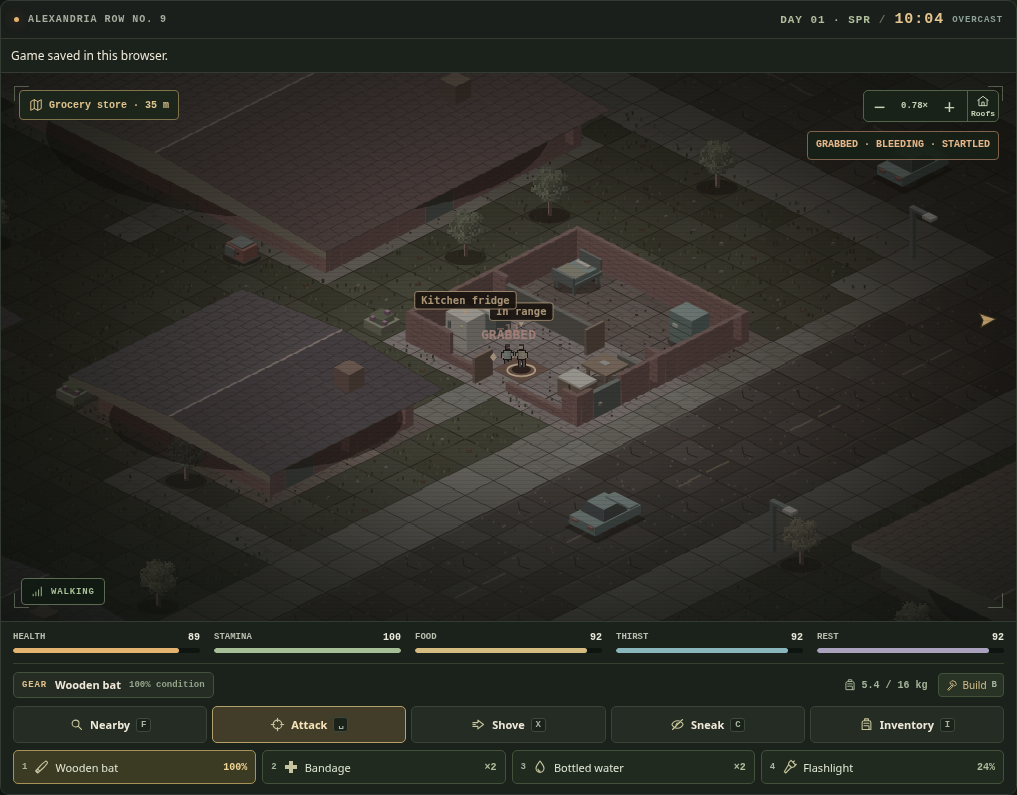
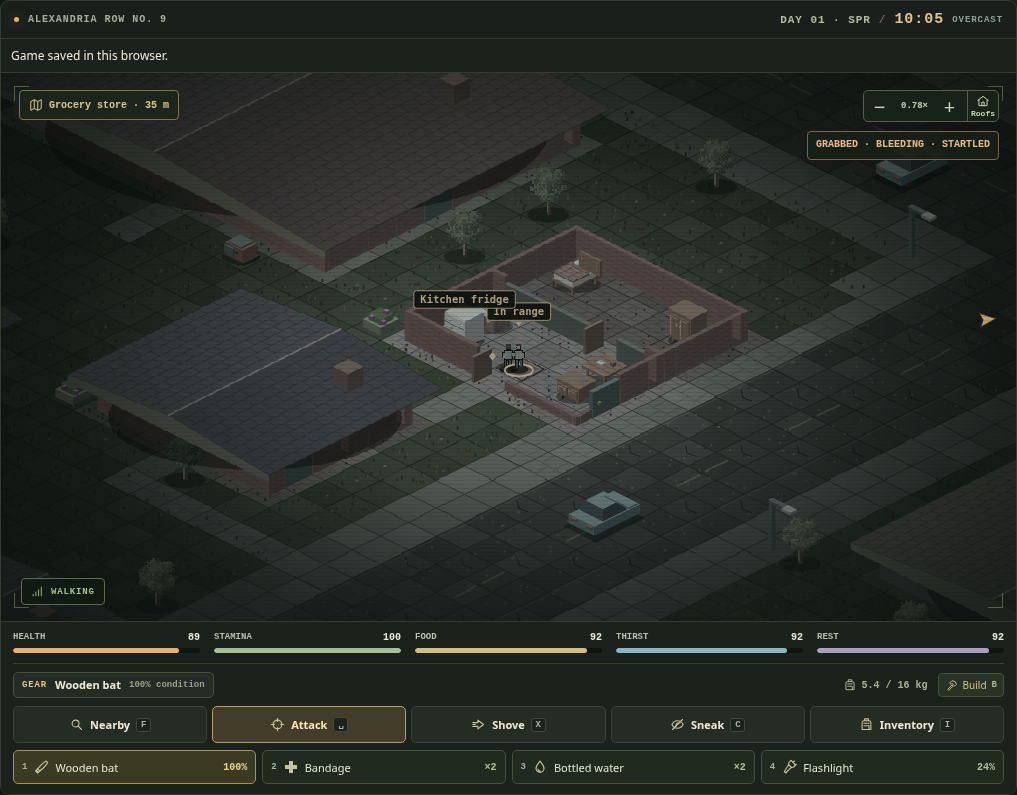
Paint detailed cached furniture for Dark Pixel interiors

diff --git a/game/view.js b/game/view.js
@@ -398,8 +398,157 @@ const View = (() => {
     ctx.drawImage(sprite, Math.round(sx) - 27, Math.round(sy) - 60);
   }
 
+  const furnitureSprites = new Map();
+  const furnitureKinds = new Set(["bed", "fridge", "sink", "washstand", "cupboard", "wardrobe", "sideboard", "shelf", "table", "sofa", "armchair", "rug"]);
+
+  function paintFurniture(kind, variant, powered) {
+    const oak = ["#947859", "#735943", "#514035"];
+    const cloth = variant === 0 ? ["#879174", "#656e59", "#475143"] :
+      variant === 1 ? ["#8f6e62", "#6c514b", "#533e3a"] : ["#668182", "#50686b", "#374c52"];
+    const enamel = ["#c7c9b4", "#a3a796", "#777e76"];
+    const metal = ["#b1b7aa", "#818c86", "#576965"];
+    const edge = (a, b, color) => line(p(...a), p(...b), color);
+    if (kind !== "rug") shadow(0, 0, kind === "bed" || kind === "sofa" ? 28 : 23, 9, "#0d120f70");
+
+    switch (kind) {
+      case "bed": {
+        for (const side of [-.32, .26]) for (const end of [-.43, .38]) box(side, end, 0, .07, .07, 9, oak);
+        box(-.37, -.51, 7, .74, 1.02, 3, oak);
+        box(-.34, -.46, 10, .68, .93, 5, enamel);
+        box(-.29, -.42, 15, .55, .24, 3, enamel);
+        edge([-.23, -.33, 18], [.18, -.33, 18], "#e9dfc080");
+        box(-.35, -.13, 15, .70, .60, 2, cloth);
+        box(-.35, -.16, 17, .70, .10, 1, cloth);
+        for (const seam of [0, .16, .33]) edge([-.31, seam, 17], [.31, seam, 17], "#ddd0ad48");
+        for (const seam of [-.16, .13]) edge([seam, -.04, 17], [seam, .43, 17], "#222d2f62");
+        box(-.38, -.53, 7, .76, .064, 18, oak);
+        for (const upright of [-.27, .26]) edge([upright, -.46, 13], [upright, -.46, 24], "#b5956766");
+        break;
+      }
+      case "fridge": {
+        box(-.32, -.29, 0, .64, .58, 3, rubber);
+        box(-.37, -.32, 3, .74, .64, 30, enamel);
+        box(-.35, .30, 5, .70, .054, 18, enamel);
+        box(-.35, .30, 24, .70, .054, 8, enamel);
+        edge([-.34, .36, 23], [.34, .36, 23], "#4f5d55");
+        box(-.26, .36, 18, .20, .035, 2, metal);
+        box(-.26, .36, 26, .16, .035, 2, metal);
+        const [px, py] = p(.24, .36, 28);
+        dot(px, py, 2, 1, powered ? "#ceda91" : "#666f61");
+        dot(px - 10, py + 7, 3, 2, "#a480697d");
+        break;
+      }
+      case "sink":
+      case "washstand": {
+        box(-.34, -.28, 2, .68, .56, 15, oak);
+        edge([0, .287, 3], [0, .287, 16], "#3e342b");
+        for (const pull of [-.19, .10]) box(pull, .28, 12, .09, .035, 1, metal);
+        box(-.39, -.31, 17, .78, .62, 3, enamel);
+        box(-.30, -.20, 20, .37, .36, 1, ["#596d69", "#455552", "#343f40"]);
+        edge([-.29, .15, 21], [.07, .15, 21], "#d4d8ba");
+        for (const rib of [.17, .25, .33]) edge([rib, -.22, 20], [rib, .16, 20], "#65746f");
+        box(-.12, -.26, 20, .055, .06, 6, metal);
+        box(-.12, -.22, 25, .055, .19, 1, metal);
+        break;
+      }
+      case "cupboard":
+      case "wardrobe":
+      case "sideboard": {
+        const tall = kind !== "sideboard", height = tall ? 34 : 18;
+        for (const foot of [-.32, .26]) box(foot, .19, 0, .06, .07, 4, oak);
+        box(-.39, -.29, 4, .78, .58, height - 4, oak);
+        box(-.41, -.31, height, .82, .62, 2, oak);
+        for (const door of [-.34, .025]) {
+          box(door, .286, 6, .31, .036, height - 9, oak);
+          edge([door + .035, .33, 8], [door + .035, .33, height - 5], "#a9895c");
+          edge([door + .035, .33, height - 5], [door + .275, .33, height - 5], "#a9895c");
+        }
+        box(-.09, .33, height * .60, .045, .027, 3, metal);
+        box(.05, .33, height * .60, .045, .027, 3, metal);
+        if (!tall) box(.14, -.13, height + 2, .13, .16, 1, cloth);
+        break;
+      }
+      case "shelf": {
+        box(-.36, -.29, 1, .72, .06, 23, oak);
+        for (const side of [-.38, .30]) box(side, -.29, 0, .07, .56, 25, oak);
+        for (const level of [4, 13, 23]) {
+          box(-.32, -.27, level, .64, .54, 2, oak);
+          if (level < 23) {
+            box(-.24, -.12, level + 2, .12, .12, 5, cloth);
+            box(-.05, -.14, level + 2, .12, .14, 4, enamel);
+          }
+        }
+        break;
+      }
+      case "table": {
+        for (const side of [-.34, .28]) for (const end of [-.31, .25]) box(side, end, 0, .065, .065, 17, oak);
+        box(-.43, -.40, 17, .86, .80, 3, oak);
+        for (const joint of [-.24, 0, .21]) edge([-.40, joint, 20], [.40, joint, 20], "#48362f60");
+        edge([-.39, .36, 20], [.38, .36, 20], "#ad8b62");
+        box(-.23, -.10, 20, .21, .17, 1, enamel);
+        edge([-.20, -.05, 21], [-.06, -.05, 21], "#707164");
+        box(.13, -.18, 20, .10, .10, 4, cloth);
+        break;
+      }
+      case "sofa":
+      case "armchair": {
+        const half = kind === "sofa" ? .49 : .37;
+        for (const side of [-half + .06, half - .12]) for (const end of [-.24, .22]) box(side, end, 0, .06, .06, 5, oak);
+        box(-half, -.32, 4, 2 * half, .65, 9, cloth);
+        box(-half + .04, -.34, 12, 2 * half - .08, .17, 13, cloth);
+        const seats = kind === "sofa" ? 2 : 1, width = (2 * half - .24) / seats;
+        for (let seat = 0; seat < seats; seat++) {
+          const side = -half + .12 + width * seat;
+          box(side, -.14, 13, width - .015, .44, 3, cloth);
+          edge([side + .02, .285, 16], [side + width - .03, .285, 16], "#d5c3ad60");
+        }
+        for (const side of [-half, half - .11]) box(side, -.21, 13, .11, .52, 7, cloth);
+        box(half - .28, -.14, 16, .14, .18, 4, enamel);
+        break;
+      }
+      case "rug": {
+        const corners = [p(-.46, -.42), p(.46, -.42), p(.46, .42), p(-.46, .42)];
+        poly(corners, "#5b4844", "#372e30");
+        poly([p(-.40, -.36), p(.40, -.36), p(.40, .36), p(-.40, .36)], "#876d59", "#b29a78");
+        for (const row of [-.27, -.13, .01, .15, .29]) edge([-.37, row, 0], [.37, row, 0], row > 0 ? "#b89b704f" : "#4338385e");
+        for (const side of [-.3, -.15, 0, .15, .3]) {
+          edge([side, -.48, 0], [side, -.42, 0], "#c0aa89");
+          edge([side, .42, 0], [side, .48, 0], "#c0aa89");
+        }
+        break;
+      }
+    }
+  }
+
+  function drawFurniture(kind, x, y, variant, powered) {
+    const key = kind + ":" + variant + ":" + Number(powered);
+    let sprite = furnitureSprites.get(key);
+    if (!sprite) {
+      sprite = document.createElement("canvas");
+      sprite.width = 72;
+      sprite.height = 64;
+      const previous = ctx;
+      try {
+        ctx = sprite.getContext("2d");
+        ctx.translate(36, 49);
+        paintFurniture(kind, variant, powered);
+      } finally { ctx = previous; }
+      furnitureSprites.set(key, sprite);
+    }
+    const [sx, sy] = p(x, y);
+    ctx.drawImage(sprite, Math.round(sx) - 36, Math.round(sy) - 49);
+  }
+
   function prop(o, state, clock) {
     const {x, y, kind, tint: tone} = o;
+    if (darkLook) {
+      const furniture = kind === "locker" && !o.opened && World.tileAt(state.world, x, y)?.room === "Bedroom" ? "cupboard" : kind;
+      if (furnitureKinds.has(furniture)) {
+        const variant = Number.isFinite(tone) ? clamp(Math.floor(tone * 3), 0, 2) : 0;
+        drawFurniture(furniture, x, y, variant, kind === "fridge" && Sim.hasPower(state, o));
+        return;
+      }
+    }
     const f = (dx, dy, z, w, d, h, c) => box(x + dx, y + dy, z, w, d, h, c);
     if (kind === "fungus") {
       const sap = state.atmosphere.awake ? olive : ["#c3c98b","#778752","#566449"];

diff --git a/tests/render-test.js b/tests/render-test.js
@@ -13,6 +13,9 @@ const mk = () => new Proxy({}, {
     if (k === "createRadialGradient" || k === "createLinearGradient") return () => { counts[k] = (counts[k] || 0) + 1; return {addColorStop() {}}; };
     return (...args) => {
       counts[k] = (counts[k] || 0) + 1;
+      if (k === "drawImage" && args.length === 3 && args[0]?.width === 72 && args[0]?.height === 64) {
+        counts.furnitureBlit = (counts.furnitureBlit || 0) + 1;
+      }
       if (k === "drawImage" && args.length === 9 && args[3] === 24 && args[4] === 32) counts.actorBlit = (counts.actorBlit || 0) + 1;
     }; },
   set(t, k, v) { t[k] = v; return true; }});
@@ -83,6 +86,18 @@ check("minimapa: repetições não redesenham os tiles", (m2.fillRect || 0) <= 2
   e = null; try { View.render(d, 0, 1 / 60); } catch (x) { e = x.message; } check("dark pixel: cadáver com poça de sangue desenha sem erros", e === null, e ?? "");
   d.look = "fast"; e = null; try { View.render(d, 0, 1 / 60); View.minimap({width: 160, height: 160, getContext: () => mk(), clientWidth: 160}, d); } catch (x) { e = x.message; }
   check("dark pixel: voltar a Fast/Classic e desenhar o minimapa funciona (contexto restaurado)", e === null, e ?? ""); }
+{
+  const interior = Sim.createControl("survival", "carer", "shelter"), world = interior.world;
+  const house = world.buildings.find(b => b.compact);
+  const floor = world.tiles.find(t => t.building === house.id && !t.solid);
+  Object.assign(interior.player, {x:floor.x + .5, y:floor.y + .5});
+  interior.look = "dark";
+  world.explored.fill(1);
+  View.prepare(world);
+  View.render(interior, 0, 1 / 60);
+  const furniture = per(() => View.render(interior, 1 / 60, 1 / 60));
+  check("dark pixel: interior desenha vários móveis a partir do cache", (furniture.furnitureBlit || 0) >= 4);
+}
 if (!quiet) console.log("\nOperações por frame (jogo parado): " + Math.round(Object.values(steady).reduce((a, b) => a + b, 0)) + " (clássico: " + Math.round(Object.values(classic).reduce((a, b) => a + b, 0)) + ")");
 console.log(failures ? "\n" + failures + " FALHA(S)" : "\nTudo OK");
 process.exit(failures ? 1 : 0);

diff --git a/docs/CODE_INDEX.md b/docs/CODE_INDEX.md
@@ -37,8 +37,8 @@ makeBuffer:17 | play:58 | stop:86
 ## game/sim.js (2662 lines)
 addXp:26 | add:49 | remove:62 | notify:72 | stockGardenSeeds:78 | prepareSupplies:90 | addUtilities:109 | stockFieldGear:127 | create:146 | createControl:198 | nearby:236 | containers:240 | unreadClueAt:256 | nearbyClues:263 | readClue:268 | isSupplyCache:274 | nearbySupplyCache:279 | collectSupplyCache:285 | sources:297 | available:301 | consume:305 | collect:319 | collectAll:336 | drop:355 | stash:387 | use:397 | beltItem:459 | setBelt:467 | useBelt:474 | activeLight:483 | replaceBattery:488 | toggleLight:497 | recipeProblem:512 | craft:523 | place:537 | vehicle:575 | enterVehicle:579 | exitVehicle:600 | refuel:628 | vehicleRepairProblem:642 | repairVehicle:650 | brake:660 | updateVehicle:667 | destination:744 | markDestination:755 | markStation:775 | travelProblem:782 | arrivalPosition:792 | travel:803 | exploredTile:839 | saveMapPin:844 | markPin:863 | removePin:871 | noise:879 | hear:892 | encounterSlots:897 | newInfected:903 | freeEncounterSpot:909 | wakeNest:915 | touchFungus:934 | noticeCrib:938 | inspectCrib:948 | warnHorde:954 | resumeEncounterWarning:961 | waveSpots:965 | updateHordes:975 | armWatch:1011 | updateAtmosphere:1021 | listenAtDoor:1069 | sceneProblem:1089 | revealLedgerCache:1094 | resolveScene:1100 | dispatchProblem:1111 | sendDispatch:1120 | readDispatchReport:1127 | settleDispatch:1135 | openingOccupied:1167 | breachProblem:1181 | breach:1190 | door:1218 | barricade:1244 | unboard:1259 | removeBarrier:1270 | minutesToRain:1281 | sight:1304 | canSee:1311 | drainLight:1320 | useTap:1329 | useGenerator:1349 | updateUtilities:1369 | fireBatch:1401 | startFireBatch:1408 | collectFireBatch:1423 | wildProblem:1457 | useWild:1477 | sow:1507 | waterGarden:1517 | gardenYield:1525 | harvestGarden:1531 | growGarden:1544 | updateOutdoor:1556 | catchUpArea:1567 | evaAtShelter:1587 | toggleGardenHelp:1592 | tendShelterGarden:1601 | contextual:1620 | recruit:1680 | threats:1690 | damageFactor:1694 | aimChance:1701 | inAttackRange:1706 | closestInReach:1710 | attackTarget:1721 | weaponProblem:1727 | endPursuit:1733 | endWindup:1739 | faceTowards:1744 | defeat:1749 | attack:1757 | shove:1794 | hurt:1812 | move:1847 | follow:1884 | walkTo:1910 | target:1922 | approach:1929 | updatePlayer:1943 | canTargetEva:2005 | updateEnemies:2009 | updateNpc:2101 | explore:2124 | updateExposure:2134 | updateNeeds:2146 | tick:2181 | updateDoorLure:2221 | breakLeg:2248 | healFracture:2256 | updateSickness:2265 | freeSpot:2288 | unstick:2301 | startSleep:2318 | fastSleep:2328 | sleep:2342 | moodles:2349 | snapshotPlayer:2373 | snapshotZone:2377 | snapshotRun:2385 | zoneShape:2398 | migrate:2413 | restore:2419
 
-## game/view.js (1601 lines)
-resize:19 | updateCamera:30 | poly:53 | line:62 | shadow:72 | box:80 | tint:88 | prepare:94 | bloodPool:152 | microDetail:157 | tileArt:182 | tendril:248 | tile:262 | glowSprite:280 | glow:297 | wall:308 | paintWall:335 | gardenTree:368 | prop:401 | roof:837 | roofArt:859 | roofCoversPlayer:893 | marker:901 | actorFrame:926 | microActor:995 | actor:1026 | flashlightBeam:1162 | chunkSignature:1192 | buildChunk:1200 | groundLayer:1228 | dimAround:1245 | render:1258 | locate:1500 | mapFit:1520 | mapPoint:1525 | minimapLayer:1533 | minimap:1552
+## game/view.js (1750 lines)
+resize:19 | updateCamera:30 | poly:53 | line:62 | shadow:72 | box:80 | tint:88 | prepare:94 | bloodPool:152 | microDetail:157 | tileArt:182 | tendril:248 | tile:262 | glowSprite:280 | glow:297 | wall:308 | paintWall:335 | gardenTree:368 | paintFurniture:404 | drawFurniture:523 | prop:542 | roof:986 | roofArt:1008 | roofCoversPlayer:1042 | marker:1050 | actorFrame:1075 | microActor:1144 | actor:1175 | flashlightBeam:1311 | chunkSignature:1341 | buildChunk:1349 | groundLayer:1377 | dimAround:1394 | render:1407 | locate:1649 | mapFit:1669 | mapPoint:1674 | minimapLayer:1682 | minimap:1701
 
 ## game/game.js (1962 lines)
 read:38 | write:42 | backUp:46 | save:55 | clearStick:76 | resetInput:83 | updateDisplayMode:96 | toggleFullscreen:108 | activate:133 | start:153 | showStartDetail:166 | rememberSetup:175 | worldRulesEditor:181 | applyWorldRules:199 | resumeSaved:215 | show:233 | close:247 | menu:255 | titleScreen:264 | wakeSound:279 | cue:289 | syncSound:301 | objectives:310 | objectiveHtml:320 | skillsHtml:324 | statusText:334 | nearbyObjects:350 | interactionLabel:364 | canTalk:375 | setHtml:381 | updateHud:387 | help:457 | landmarks:467 | map:475 | savePinForm:524 | itemDescription:535 | matches:551 | inventoryItems:561 | nearbyItems:584 | updateInventoryLists:605 | bag:647 | useBelt:678 | updateBelt:685 | beltPanel:704 | gear:718 | editSurvivor:754 | crafting:763 | health:784 | diary:811 | dispatchStatus:834 | fieldLedger:849 | ledgerEntry:875 | ledgerReport:881 | ledgerPanel:890 | playtestReport:917 | copyPlaytest:947 | knownStory:960 | storyText:965 | outbreakLog:969 | storyEntry:978 | supplyRun:987 | gardenStatus:1015 | gardenProject:1024 | waterProject:1044 | utilities:1065 | releases:1084 | research:1091 | npcPanel:1099 | gardenPanel:1116 | stationPanel:1140 | objectPanel:1187 | interact:1298 | interactions:1307 | nearbyAction:1324 | strike:1353 | quickUse:1361 | pause:1368 | exportSave:1375 | refreshPanel:1382 | bagChanged:1390 | changeInventory:1400 | bindTap:1662 | updateStick:1735 | shoveOrBrake:1763 | frame:1859

diff --git a/docs/micro-pixel-slice/README.md b/docs/micro-pixel-slice/README.md
@@ -15,6 +15,15 @@ The other graphics modes retain their existing art.
 | Terrain chunk cache and viewport culling | Pavement and floor details draw into cached chunks. Brick wall shapes, slate roofs and deciduous trees use cached canvases. Survivor and infected poses are packed into atlas pages and blitted per actor. |
 | Audio, gameplay HUD, day/night and lighting | Existing interaction, survival, combat, flashlight, weather, and powered lights continue to run. The Dark Pixel colour grade is lighter in daylight to keep the small sprites legible. |
 
+## Furniture art pass
+
+Dark Pixel uses original cached sprites for beds, fridges, sinks, cupboards,
+shelves, tables, sofas, armchairs and rugs. Materials, seams, fittings and worn
+edges distinguish the pieces at game scale. Tint selects a small set of fabric
+variants, and the fridge indicator follows its existing power state. These
+sprites are drawn at the existing prop anchors in the depth stack, so doors,
+collision, targeting and loot continue to use the same world objects.
+
 ## Running and testing
 
 The Cloudflare Worker Preview serves the game from `game/`. For local testing,
@@ -30,6 +39,8 @@ walking into the furnished house with automatic roof visibility.
 ![Street with cottages and a parked car](street.png)
 
 ![Playable cutaway of the Alexandria Row interior](interior.png)
+
+![Closer view of the new furniture sprites inside the playable house](furniture.png)
 
 ## Remaining work
 
